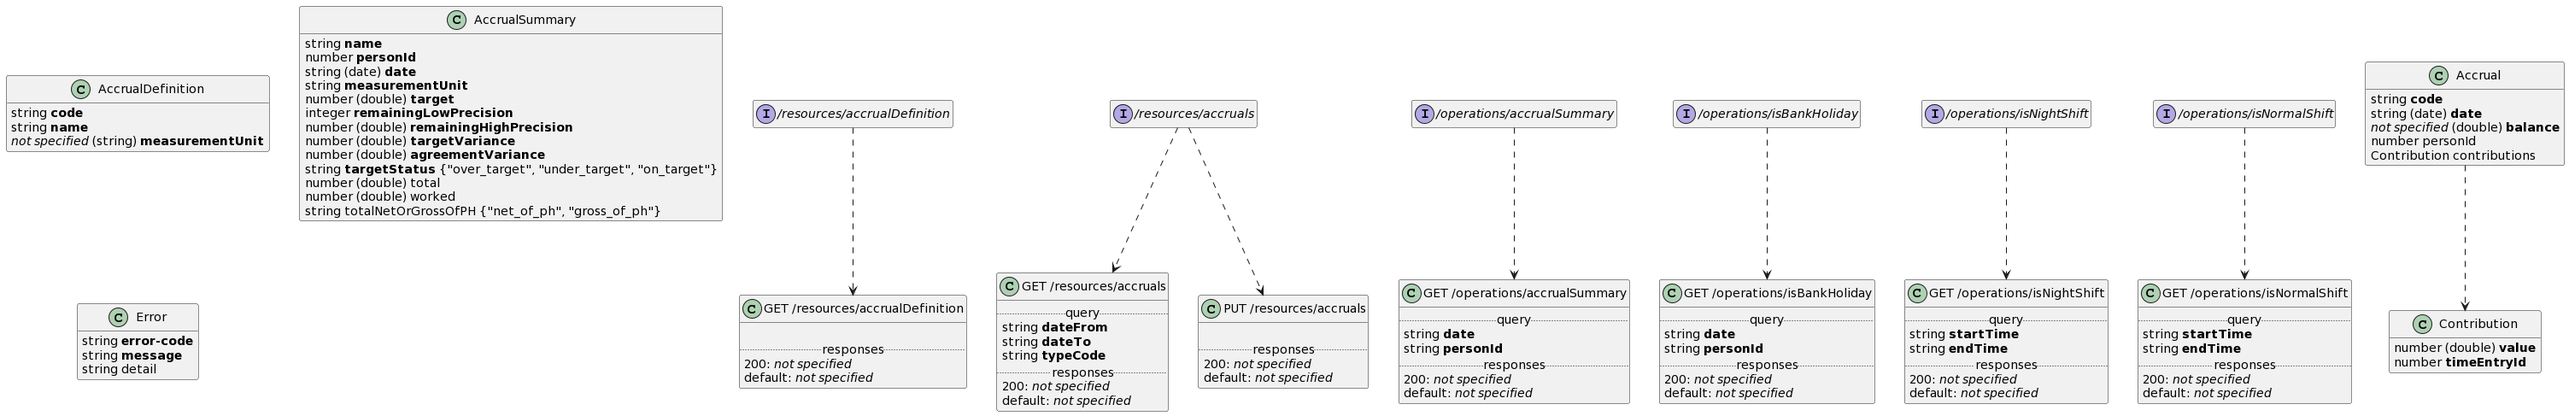
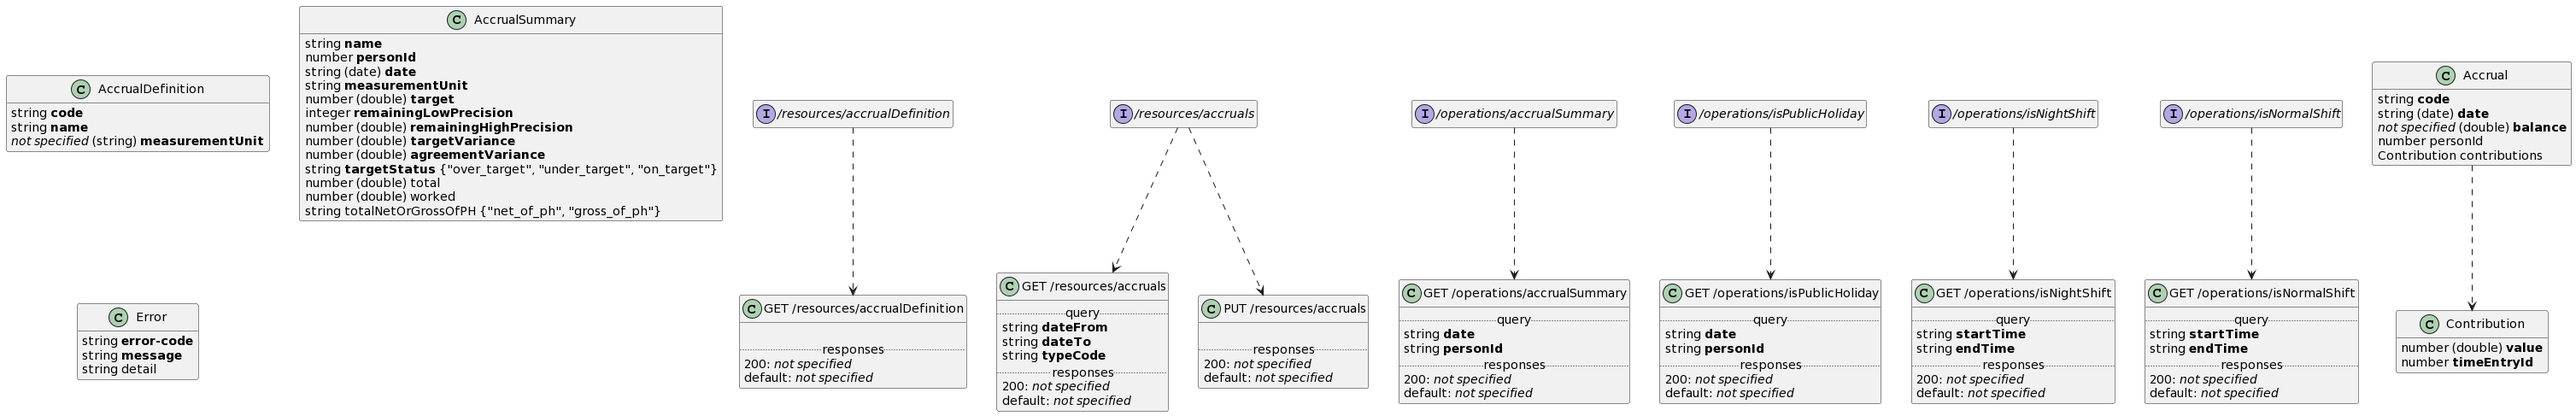
EAHW-1249 renamed endpoint

diff --git a/docs/containers/rest-api/rest-endpoints.md b/docs/containers/rest-api/rest-endpoints.md
@@ -250,20 +250,20 @@ Status Code **default**
 This operation does not require authentication
 </aside>
 
-## isBankHoliday
+## isPublicHoliday
 
-<a id="opIdisBankHoliday"></a>
+<a id="opIdisPublicHoliday"></a>
 
-`GET /operations/isBankHoliday`
+`GET /operations/isPublicHoliday`
 
-*Determine whether or not the given day is a Bank holiday (or a substitute bank holiday)*
+*Determine whether or not the given day is a public holiday (or a substitute public holiday)*
 
-<h3 id="isbankholiday-parameters">Parameters</h3>
+<h3 id="ispublicholiday-parameters">Parameters</h3>
 
 |Name|In|Type|Required|Description|
 |---|---|---|---|---|
-|date|query|string(date)|true|The date whose Bank holiday status is to be determined|
-|personId|query|string|true|The person has a bearing on whether a date is a Bank holiday|
+|date|query|string(date)|true|The date whose Public holiday status is to be determined|
+|personId|query|string|true|The person has a bearing on whether a date is a public holiday|
 
 > Example responses
 
@@ -273,14 +273,14 @@ This operation does not require authentication
 true
 ```
 
-<h3 id="isbankholiday-responses">Responses</h3>
+<h3 id="ispublicholiday-responses">Responses</h3>
 
 |Status|Meaning|Description|Schema|
 |---|---|---|---|
-|200|[OK](https://tools.ietf.org/html/rfc7231#section-6.3.1)|A boolean value. True if the date is a Bank holiday in the context of the person otherwise False|boolean|
+|200|[OK](https://tools.ietf.org/html/rfc7231#section-6.3.1)|A boolean value. True if the date is a public  holiday in the context of the person otherwise False|boolean|
 |default|Default|unexpected error|Inline|
 
-<h3 id="isbankholiday-responseschema">Response Schema</h3>
+<h3 id="ispublicholiday-responseschema">Response Schema</h3>
 
 Status Code **default**
 
